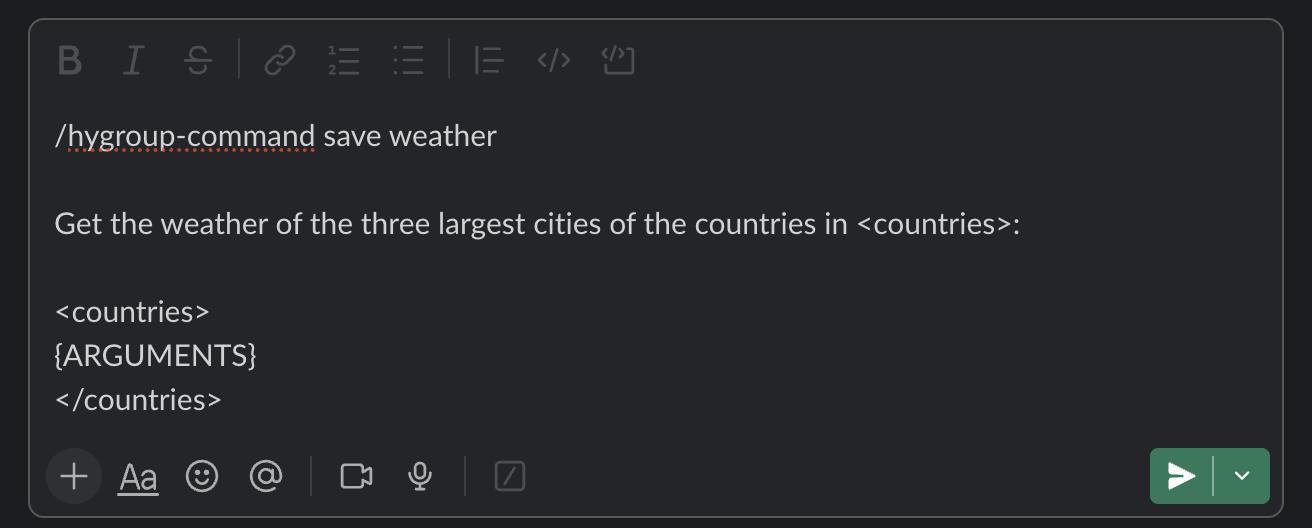
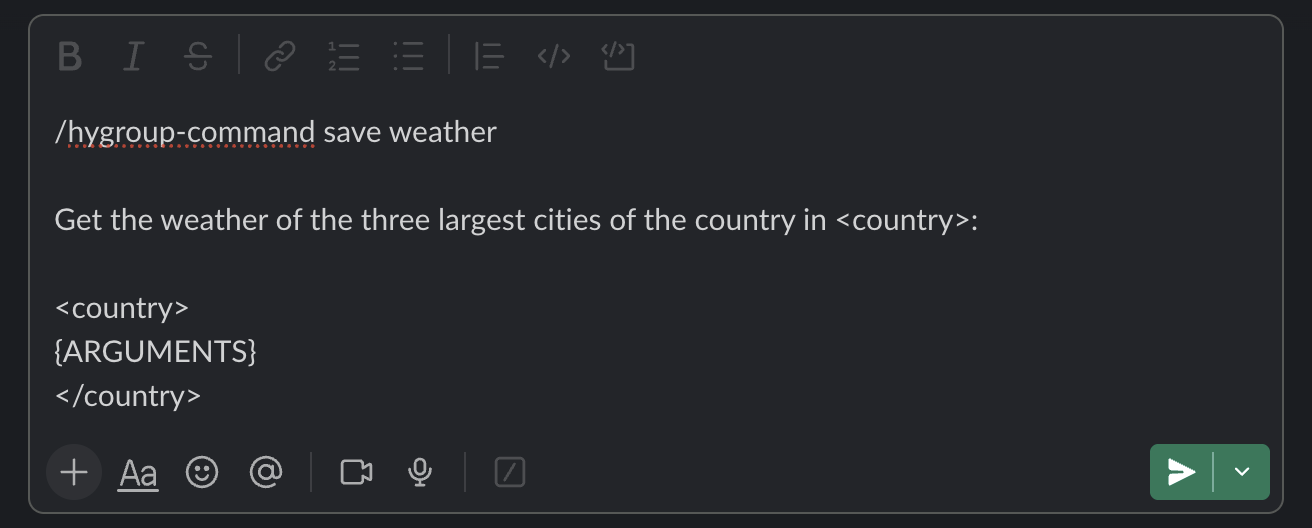
Minor revision of the documentation

diff --git a/docs/tutorial.md b/docs/tutorial.md
@@ -1,22 +1,22 @@
 # Tutorial
 
-This tutorial demonstrates how to install, run and use the *Hybrid Groups* Slack app.
+This tutorial demonstrates how to install and use the *Hybrid Groups* Slack app, and provides an overview of its main features.
 
 ## Initial setup
 
 ### Python package
 
-Create a minimal `hybrid-groups-quickstart` project and install the `hybrid-groups` package:
+Create a minimal `hybrid-groups-tutorial` project and install the `hybrid-groups` package:
 
 ```bash
-uv init --bare --python 3.11 hybrid-groups-quickstart
-cd hybrid-groups-quickstart
+uv init --bare --python 3.11 hybrid-groups-tutorial
+cd hybrid-groups-tutorial
 uv add hybrid-groups
 ```
 
 ### Slack app
 
-Launch the Slack app installation wizard and follow the instructions on the screen.
+Install the *Hybrid Groups* Slack app in a Slack workspace by launching the installation wizard and following the instructions on the screen.
 
 ```bash
 uv run python -m hygroup.setup.apps slack
@@ -31,6 +31,10 @@ SLACK_APP_TOKEN=...
 SLACK_APP_USER_ID=...
 ```
 
+### Slack channel
+
+Go the the Slack workspace where you installed the app and create a channel. In the channel's menu, `Open channel details` -> `Integrations` -> `Add apps`, and select the `Hybrid Groups` app. 
+
 ### API keys
 
 Add a [Gemini API key](https://aistudio.google.com/apikey) and a [Brave Search API key](https://api-dashboard.search.brave.com/app/keys) to the `.env` file:
@@ -40,11 +44,7 @@ GEMINI_API_KEY=...  # required
 BRAVE_API_KEY=...  # optional
 ```
 
-Adding a `BRAVE_API_KEY` to `.env` enables all users to use this API key for web search in the quickstart example. Alternatively, users can add a `BRAVE_API_KEY` to their [personal settings](#personal-settings) in the Slack app's home view, so that they can search with their own API key.
-
-### Slack channel
-
-Go the the Slack workspace where you installed the app and create a channel. In the channel's menu, `Open channel details` -> `Integrations` -> `Add apps`, and select the `Hybrid Groups` app. 
+Adding a `BRAVE_API_KEY` to `.env` enables all users to use this key for web search via the Brave Search API. Alternatively, users can add a `BRAVE_API_KEY` to their [secrets](#personal-settings) in the Slack app's home view, for searching with their personal API keys.
 
 ## Agent registration
 
@@ -56,12 +56,14 @@ uv run python -m hygroup.examples.agents
 
 This creates an agent registry at `.data/agents/registry.json` with the following agents:
 
-- A `system` agent that monitors all messages in a [group chat](#group-sessions). It may decide to stay silent or respond to a message, depending on message content, context and [system instructions](https://github.com/gradion-ai/hybrid-groups/blob/main/hygroup/agent/system/prompt.md). It is configured with a [Brave Search MCP server](https://github.com/brave/brave-search-mcp-server), a [weather forecast](https://github.com/gradion-ai/hybrid-groups/blob/main/hygroup/examples/weather.py) tool, and it can run all other agents in the registry as subagents.
-- A `math` agent that can execute Python code for calculations, data analysis, and visualizations. It is configured with an [ipybox MCP server](https://gradion-ai.github.io/ipybox/mcp-server/) for secure code execution in a sandbox.
-- An `office` agent that can manage a user's Gmail, Google Calendar, and Google Drive. It uses [service connectors](service-connectors.md) to access these services on behalf of individual users.
+- A `system` agent that monitors all messages in a [group session](#group-sessions). It may decide to stay silent or respond to a message, depending on message content, context and [system instructions](https://github.com/gradion-ai/hybrid-groups/blob/main/hygroup/agent/system/prompt.md). It is configured with a [Brave Search MCP server](https://github.com/brave/brave-search-mcp-server), a [weather forecast](https://github.com/gradion-ai/hybrid-groups/blob/main/hygroup/examples/weather.py) tool.
+  
+    !!! Info "Subagents"
 
-!!! Note
-    For using the `office` agent, add an `OPENAI_API_KEY` to `.env` as the agent uses `openai:gpt-5-mini` as model.
+        The `system` agent can also invoke other agents as subagents. See section [group sessions](#group-sessions) for an example.
+
+- A `math` agent that can execute Python code for calculations, data analysis, and visualizations. It is configured with an [ipybox MCP server](https://gradion-ai.github.io/ipybox/mcp-server/) for secure code execution in a sandbox.
+- An `office` agent that can manage a user's Gmail, Google Calendar, and Google Drive. It uses [service connectors](service-connectors.md) to access these services on behalf of individual users. The `office` agent requires an `OPENAI_API_KEY` in `.env` as it uses `openai:gpt-5-mini` as model.
 
     ```env title=".env"
     OPENAI_API_KEY=...
@@ -77,91 +79,79 @@ uv run python -m hygroup.scripts.server --gateway slack
 
 ## Verify registration
 
- In the created [Slack channel](#slack-channel), start typing `/hy` in the message box, select the `/hygroup-agents` slash command
+ In the created [Slack channel](#slack-channel), start typing `/hy` in the message box, select the `/hygroup-agents` slash command and press `Enter`:
  
  ![Slash command for listing registered agents](images/tutorial/commands/cmd-agents.png)
  
- and press `Enter` to see the list of registered example agents:
+ You should see a list with the registered example agents:
 
 ![List of registered example agents](images/tutorial/commands/cmd-agents-result.png)
 
 ## Personal settings
 
-Click on the `Hybrid Groups` app in Slack, then the `Home` tab to see your personal settings. It allows defining preferences, like agent response style, and also your secrets, like API keys. 
-
-In the following example, the user provides his own `BRAVE_API_KEY` that is used by the Brave Search MCP server instead of the default `BRAVE_API_KEY` in the `.env` file.
+Click on the `Hybrid Groups` app in Slack, then the `Home` tab to see your personal settings. These are your preferences (agent response style, ...) and your secrets (API keys, ...). In the following example, the user provides his own `BRAVE_API_KEY` which takes precedence over the default `BRAVE_API_KEY` in the `.env` file.
 
 ![Personal settings](images/tutorial/home-view.png)
 
 ## Group sessions
 
-Users and agents collaborate in group sessions, corresponding to a [thread](https://slack.com/help/articles/115000769927-Use-threads-to-organize-discussions) in Slack. Each thread runs its own instances of agents.
-The system agent, displayed as `Hybrid Groups` app, monitors :eyes: all messages and decides whether to respond :robot: or stay silent :ballot_box_with_check:. 
-
-!!! Note "Subagents"
-
-    The system agent may also invoke other agents as subagents, like the `math` agent in the following example.
+Users and agents collaborate in group sessions, corresponding to [threads](https://slack.com/help/articles/115000769927-Use-threads-to-organize-discussions) in Slack. Each thread runs its own instances of agents.
+The system agent, displayed as `Hybrid Groups` app, monitors :eyes: all messages and decides whether to respond :robot: or stay silent :ballot_box_with_check:. It can also run other agents as subagents.
 
 ![System agent](images/tutorial/session-1.png)
 
-Users may also invoke an agent directly by mentioning it. For example, starting a message with `@math` invokes the `math` agent directly, bypassing the system agent.
-Starting a message  with `@Hybrid Groups` invokes the system agent. When the system agent is mentioned explicitly, it always generates a response :robot:.
+Users can also invoke an agent directly by mentioning it. For example, starting a message with `@math` invokes the `math` agent directly, bypassing the system agent.
+Starting a message  with `@Hybrid Groups` invokes the system agent. When the system agent is mentioned, it must generate a response :robot:.
 
 ![Mentioned agents](images/tutorial/session-2.png)
 
 ## Session persistence
 
-    Session and agent state are persisted. Group session can be resumed after an [application server](application-server.md) restart.
+Group messages and agent states are persisted. After an [application server](#application-server) restart, group sessions can be resumed. During an application server downtime, new messages added to Slack threads are processed when the server is up again.
 
 ## Service connectors
 
-!!! Note
+!!! Note "Composio integration"
 
     *Hybrid Groups* uses [Composio](https://composio.dev/) to connect to 250+ services, like Gmail, Notion, Figma, etc. Follow [these setup instructions](service-connectors.md) for using service connectors. 
 
-To enable the `office` agent to access Gmail on behalf of individual users, each user must authorize access to their Gmail account by running the `/hygroup-connect gmail` slash command in Slack. This must be done only once per user.
+To enable the `office` agent to access Gmail on behalf of individual users, they must authorize access to their Gmail accounts by running the `/hygroup-connect gmail` command in Slack. This needs to be done only once per user.
 
 ![Connect command](images/tutorial/commands/cmd-connect.png)
 
-*Hybrid Groups* responds to this command with a link to initiate the OAuth flow for Gmail:
+The system responds to this command with a link to initiate the OAuth flow for Gmail:
 
 ![Composio toolkits](images/tutorial/commands/cmd-connect-result-2.png)
 
-Click on the link and follow the instructions on the OAuth consent screen to authorize access. After successful authorization, the `/hygroup-connect` slash command should show the `gmail` toolkit as :white_check_mark: connected:
+Click on the link and follow the instructions on the OAuth consent screen. After successful authorization, the `/hygroup-connect` command should show the Composio `gmail` toolkit as :white_check_mark: connected. You are now ready to use your Gmail account via the `office` agent.
 
 ![Composio toolkits](images/tutorial/commands/cmd-connect-result-3.png)
-
-Users who have not authorized access should see the `gmail` toolkit as :heavy_multiplication_x: disconnected:
-
-![Composio toolkits](images/tutorial/commands/cmd-connect-result-1.png)
-
-Users who have authorized access to their Gmail account can now use it in group sessions.
 
 !!! Failure "Access restrictions"
 
     Users can only access their own Gmail account, never those of other users. Users **never** have access to service accounts of other users.
 
+The following example uses `office` subagents to get email statistics from the inboxes of two users.
+
 ![Access Gmail on behalf of individual users](images/tutorial/connectors.png)
 
 ## Media attachments
 
-Users can attach media files (images, videos, sound files, ...) and documents (PDFs, ...) to Slack messages for being processed by agents. They are also accessible to subagents.
+Users can attach media files (images, videos, sound files, ...) and documents (PDFs, ...) to Slack messages for being processed by agents. Attachments are also accessible to subagents.
 
 ![Media attachments](images/tutorial/attachments.png)
 
 ## Action approval
 
-Users can be requested to approve actions executed on their behalf by starting the application server with the `--user-channel slack` option:
+Users can be requested to approve actions that are executed on their behalf by starting the application server with the `--user-channel slack` option:
 
 ```shell
 uv run python -m hygroup.scripts.server --gateway slack --user-channel slack
 ```
 
-Approval requests are sent  to the initiating user as [ephemeral messages](https://docs.slack.dev/messaging/#ephemeral) i.e. messages that are only visible to that user.
+Approval requests are sent to the initiating user as [ephemeral messages](https://docs.slack.dev/messaging/#ephemeral) i.e. visible only to that user. Users can choose to approve an action once, for this session, always, or deny execution. Relevant for an action is the tool name only, not the arguments.
 
 ![Action approval](images/tutorial/approval.png)
-
-Users can choose to approve an action once, for a group session, always, or deny it. Relevant for an action is the tool name only, not the arguments.
 
 ## Magic commands
 
@@ -177,10 +167,10 @@ The system saves the magic command for the calling user, and should respond with
 
 ![Save magic command result](images/tutorial/commands/cmd-command-save-result.png)
 
-For executing a magic command, start a message with `%` followed by the command name e.g. `%weather`. Text following the command substitutes the optional `{ARGUMENTS}` variable in the magic command.
+For executing a magic command, start a message with `%` followed by the command name e.g. `%weather`. Text following the command substitutes the `{ARGUMENTS}` variable. If the magic command doesn't contain an `{ARGUMENTS}` variable, the text is appended.
 
 ![Execute magic command](images/tutorial/commands/cmd-command-exec.png)
 
 !!! Info
 
-    Magic commands are conceptually very similar to Claude Code [custom slash commands](https://docs.anthropic.com/en/docs/claude-code/slash-commands#custom-slash-commands).
+    Magic commands in *Hybrid Groups* are conceptually similar to [custom slash commands](https://docs.anthropic.com/en/docs/claude-code/slash-commands#custom-slash-commands) in Claude Code.

diff --git a/docs/agent-registry.md b/docs/agent-registry.md
@@ -1,14 +1,17 @@
 # Agent registry
 
-Agents in *Hybrid Groups* are configured and registered programmatically. A common setup is to have a [system agent](#system-agent) and zero or more specialized agents. The system agent can use other agents in the registry as subagents, and selects them based on their `description`. An agent configuration includes system instructions, model settings, MCP servers and other tools. 
+Agents in *Hybrid Groups* are configured and registered programmatically. An agent configuration includes system instructions, model settings, MCP servers and other tools. 
 
 !!! Example
 
-    See [agents.py](https://github.com/gradion-ai/hybrid-groups/blob/main/hygroup/examples/agents.py) for an example of how to configure and register agents, and the [tutorial](tutorial.md) for a complete usage walkthrough. The following subsections explain key parts of the agent configuration.
+    See [agents.py](https://github.com/gradion-ai/hybrid-groups/blob/main/hygroup/examples/agents.py) for agent configuration and registration, and the [tutorial](tutorial.md) for usage examples.
+
+A common setup is to have a [system agent](#system-agent) and zero or more specialized agents. The system agent can use other agents in the registry as subagents, and selects them based on their `description`. 
+
 
 ## System agent
 
-A system agent monitors all messages in a [group chat](tutorial.md#group-sessions). It may decide to stay silent or respond to a message, depending on message content, context and system instructions. The [default instructions](https://github.com/gradion-ai/hybrid-groups/blob/main/hygroup/agent/system/prompt.md) for the system agent can be loaded with `system_agent_instructions()`.
+A system agent monitors all messages in a [group session](tutorial.md#group-sessions). It may decide to stay silent or respond to a message, depending on message content, context and system instructions. [Default instructions](https://github.com/gradion-ai/hybrid-groups/blob/main/hygroup/agent/system/prompt.md) for a system agent can be loaded with `system_agent_instructions()`.
 
 ```python
 from pydantic_ai.models.google import GoogleModelSettings
@@ -19,7 +22,7 @@ from hygroup.agent.system.agent import system_agent_instructions
 --8<-- "hygroup/examples/agents.py:system-agent"
 ```
 
-The `model` name in `AgentSettings` is a Pydantic AI [model name](https://ai.pydantic.dev/api/models/base/), `model_settings` are Pydantic AI [ModelSettings](https://ai.pydantic.dev/api/settings/) or those of a specific model provider, like [GoogleModelSettings](https://ai.pydantic.dev/models/google/#model-settings).
+The `model` name in `AgentSettings` is a Pydantic AI [model name](https://ai.pydantic.dev/api/models/base/), `model_settings` are general Pydantic AI [ModelSettings](https://ai.pydantic.dev/api/settings/) or those of a specific model provider, like [GoogleModelSettings](https://ai.pydantic.dev/models/google/#model-settings).
 
 The configuration returned from `system_agent_config()` is added to the `AgentRegistry` with the `add_config()` method. The registry is persisted to `registry_path` with the `save()` method.
 

diff --git a/docs/service-connectors.md b/docs/service-connectors.md
@@ -12,7 +12,7 @@ COMPOSIO_API_KEY=...
 
 ## Setup MCP servers
 
-Input for creating Composio MCP servers is a JSON file like the following `toolkits.json`. Keys are Composio [toolkit](https://docs.composio.dev/toolkits/introduction) names (lowercase), values contain the `tools` that the corresponding MCP server should expose. 
+Input for creating Composio MCP servers is a JSON file like the following `toolkits.json`file. Keys are Composio [toolkit](https://docs.composio.dev/toolkits/introduction) names (lowercase), values contain the `tools` that the corresponding MCP server should expose. 
 
 ```json title="toolkits.json"
 {
@@ -72,21 +72,20 @@ You should now see a Composio configuration at `.data/composio/config.json`. Whe
 
 ![Connect command](images/tutorial/commands/cmd-connect.png)
 
-you should see the following message:
+you should see the following output:
 
 ![Composio toolkits](images/tutorial/commands/cmd-connect-result-1.png)
 
 ## Authorize access
 
-Run the `/hygroup-connect <toolkit>` slash command in Slack to authorize access to a service identified by `<toolkit>`. For example, running `/hygroup-connect gmail` returns a link to initiate the OAuth flow for Gmail.
+Run the `/hygroup-connect <toolkit>` command in Slack to initiate the authorization procedure for a service identified by `<toolkit>`. For example, running `/hygroup-connect gmail` returns a link to initiate the OAuth flow for Gmail:
 
 ![Composio toolkits](images/tutorial/commands/cmd-connect-result-2.png)
 
-Click on the link and follow the instructions on the OAuth consent screen to authorize access. After successful authorization, the `/hygroup-connect` slash command should show the `gmail` toolkit as :white_check_mark: connected:
+Click on the link and follow the instructions on the OAuth consent screen to authorize access. After successful authorization, the `/hygroup-connect` command should show the `gmail` toolkit as :white_check_mark: connected:
 
 ![Composio toolkits](images/tutorial/commands/cmd-connect-result-3.png)
 
 !!! Failure "Access restrictions"
 
-    An agent using the `gmail` toolkit's MCP server can now access your Gmail account when **you** interact with that agent. Other users in the group do not have access to your Gmail account when interacting with the agent. 
-    They can access their own Gmail accounts after they have authorized access for themselves. In other words, authorizing access to a service is done **on a per-user basis**, and **not globally** for the application.
+    An agent using the `gmail` toolkit's MCP server can now access your Gmail account when **you** interact with the agent. Other users do not have access to your Gmail account when interacting with the same agent. They can access their own Gmail accounts after they have authorized access. In other words, authorizing access to a user's service account is done **on a per-user basis**, and **not globally** for the application.

diff --git a/docs/index.md b/docs/index.md
@@ -1,12 +1,16 @@
 # Introduction
 
-*Hybrid Groups* integrates human team collaboration with agentic AI. Unlike typical AI applications built for single-user interaction, *Hybrid Groups* enables AI agents to have conversations with multiple team members simultaneously, recognizing each member’s identity and respecting their unique preferences and permissions. Agents can also proactively support team discussions by contributing relevant information or initiating helpful actions.
+*Hybrid Groups* integrates human team collaboration with AI agents. Unlike typical AI applications built for single-user interaction, *Hybrid Groups* enables AI agents to have conversations with multiple team members simultaneously, recognizing each member’s identity and respecting their unique preferences and permissions. Agents can also proactively support team discussions by contributing relevant information or initiating helpful actions.
 
 <div style="position: relative; padding-bottom: 56.25%; height: 0; overflow: hidden; max-width: 100%; height: auto;">
     <iframe src="https://www.youtube.com/embed/OxOmRsNin4o" frameborder="0" allowfullscreen style="position: absolute; top: 0; left: 0; width: 100%; height: 100%;"></iframe>
 </div>
 
-*Hybrid Groups* currently supports Slack and GitHub as team collaboration platforms, and is extensible to other platforms. Users and agents collaborate in group sessions. A group session corresponds to a thread in Slack or an issue in GitHub. The system analyzes messages to determine if an agent should be activated, and users may also invoke an agent directly by mentioning it. Agents have full group session context, including all messages and participants.
+*Hybrid Groups* currently supports Slack and GitHub as team collaboration platforms, and is extensible to other platforms. Teams collaborate with agents in group sessions. A group session corresponds to a thread in Slack or an issue in GitHub. The system analyzes group messages to determine if an agent should be activated, but users may also invoke agents directly. All agents have full group session context, including messages and participants.
+
+!!! Tip "Tutorial"
+
+    Check the [tutorial](tutorial.md) for a feature overview with examples.
 
 <div class="image-row">
   <div class="image-item">

diff --git a/docs/installation.md b/docs/installation.md
@@ -2,11 +2,9 @@
 
 *Hybrid Groups* requires an installation of
 
-- the `hybrid-groups` [Python package](#python-package) locally,
+- the `hybrid-groups` [Python package](#python-package),
 - the [Slack app](#slack-app) in a Slack workspace, or
 - the [GitHub app](#github-app) in a GitHub repository
-
-See [Tutorial](tutorial.md) for running and using *Hybrid Groups*.
 
 ## Python package
 
@@ -21,7 +19,8 @@ For installing the *Hybrid Groups* Slack app in a Slack workspace, launch the se
 ```shell
 python -m hygroup.setup.apps slack
 ```
-After installation, you should see the following variables in a `.env` in the current working directory (creating a new one if it doesn't exist):
+
+After installation, you should see the following variables in a `.env` file in the current working directory:
 
 ```env title=".env"
 SLACK_BOT_TOKEN=...
@@ -40,7 +39,7 @@ For installing the *Hybrid Groups* GitHub app in a GitHub repository, launch the
 python -m hygroup.setup.apps github
 ```
 
-After installation, you should see the following variables in a `.env` in the current working directory (creating a new one if it doesn't exist):
+After installation, you should see the following variables in a `.env` file in the current working directory:
 
 ```env title=".env"
 GITHUB_APP_ID=...

diff --git a/DEVELOPMENT.md b/DEVELOPMENT.md
@@ -1,7 +1,5 @@
 # Development Environment
 
-This guide provides instructions for setting up a development environment for `hybrid-groups`. Follow these steps to get started with development, testing, and contributing to the project.
-
 Clone the repository:
 
 ```bash
@@ -9,7 +7,7 @@ git clone https://github.com/gradion-ai/hybrid-groups.git
 cd hybrid-groups
 ```
 
-Install dependencies and create virtual environment:
+Create a virtual environment and install dependencies:
 
 ```bash
 uv sync
